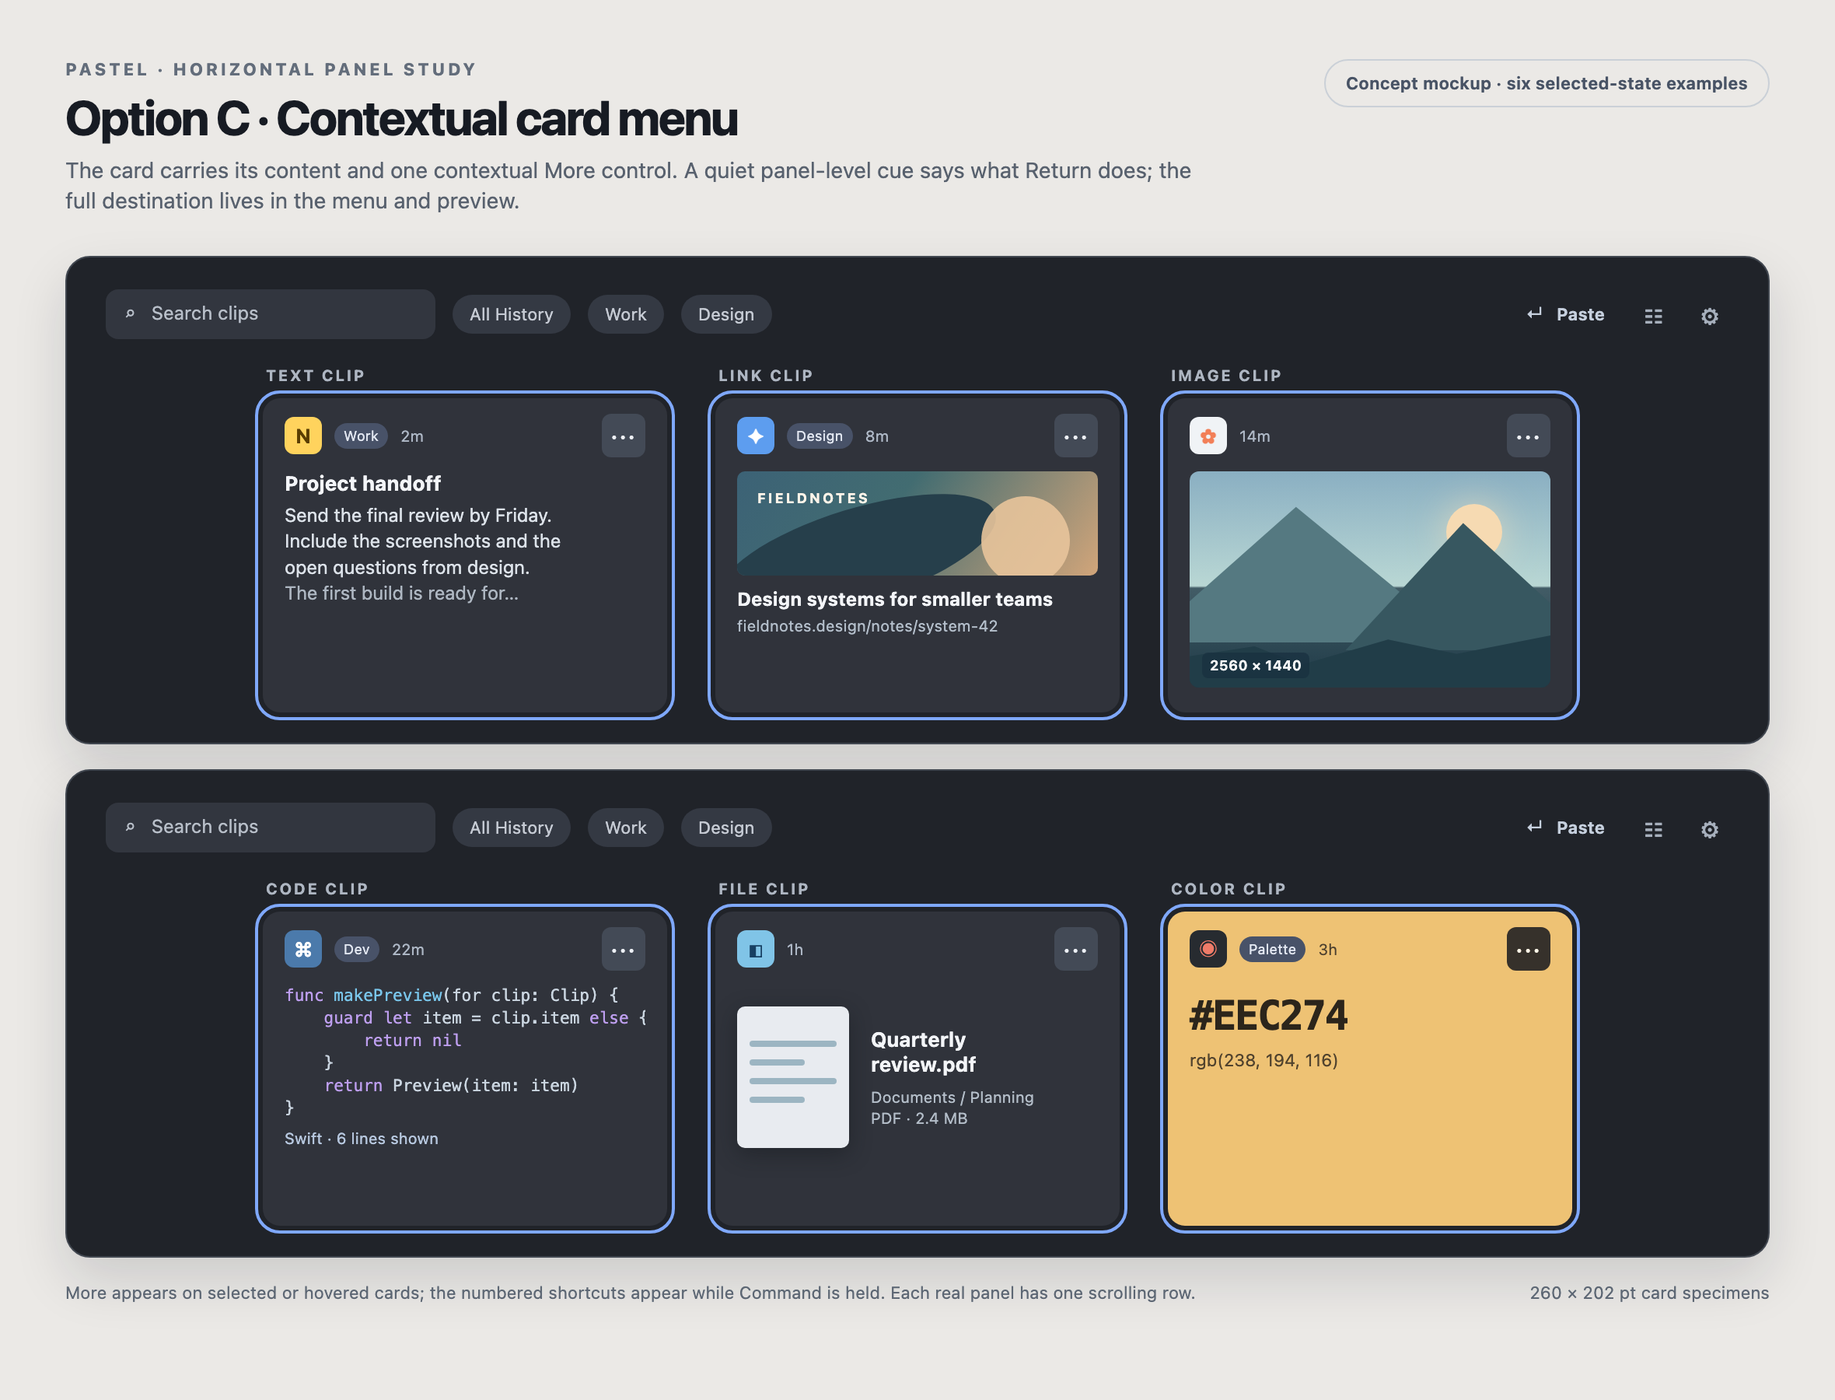
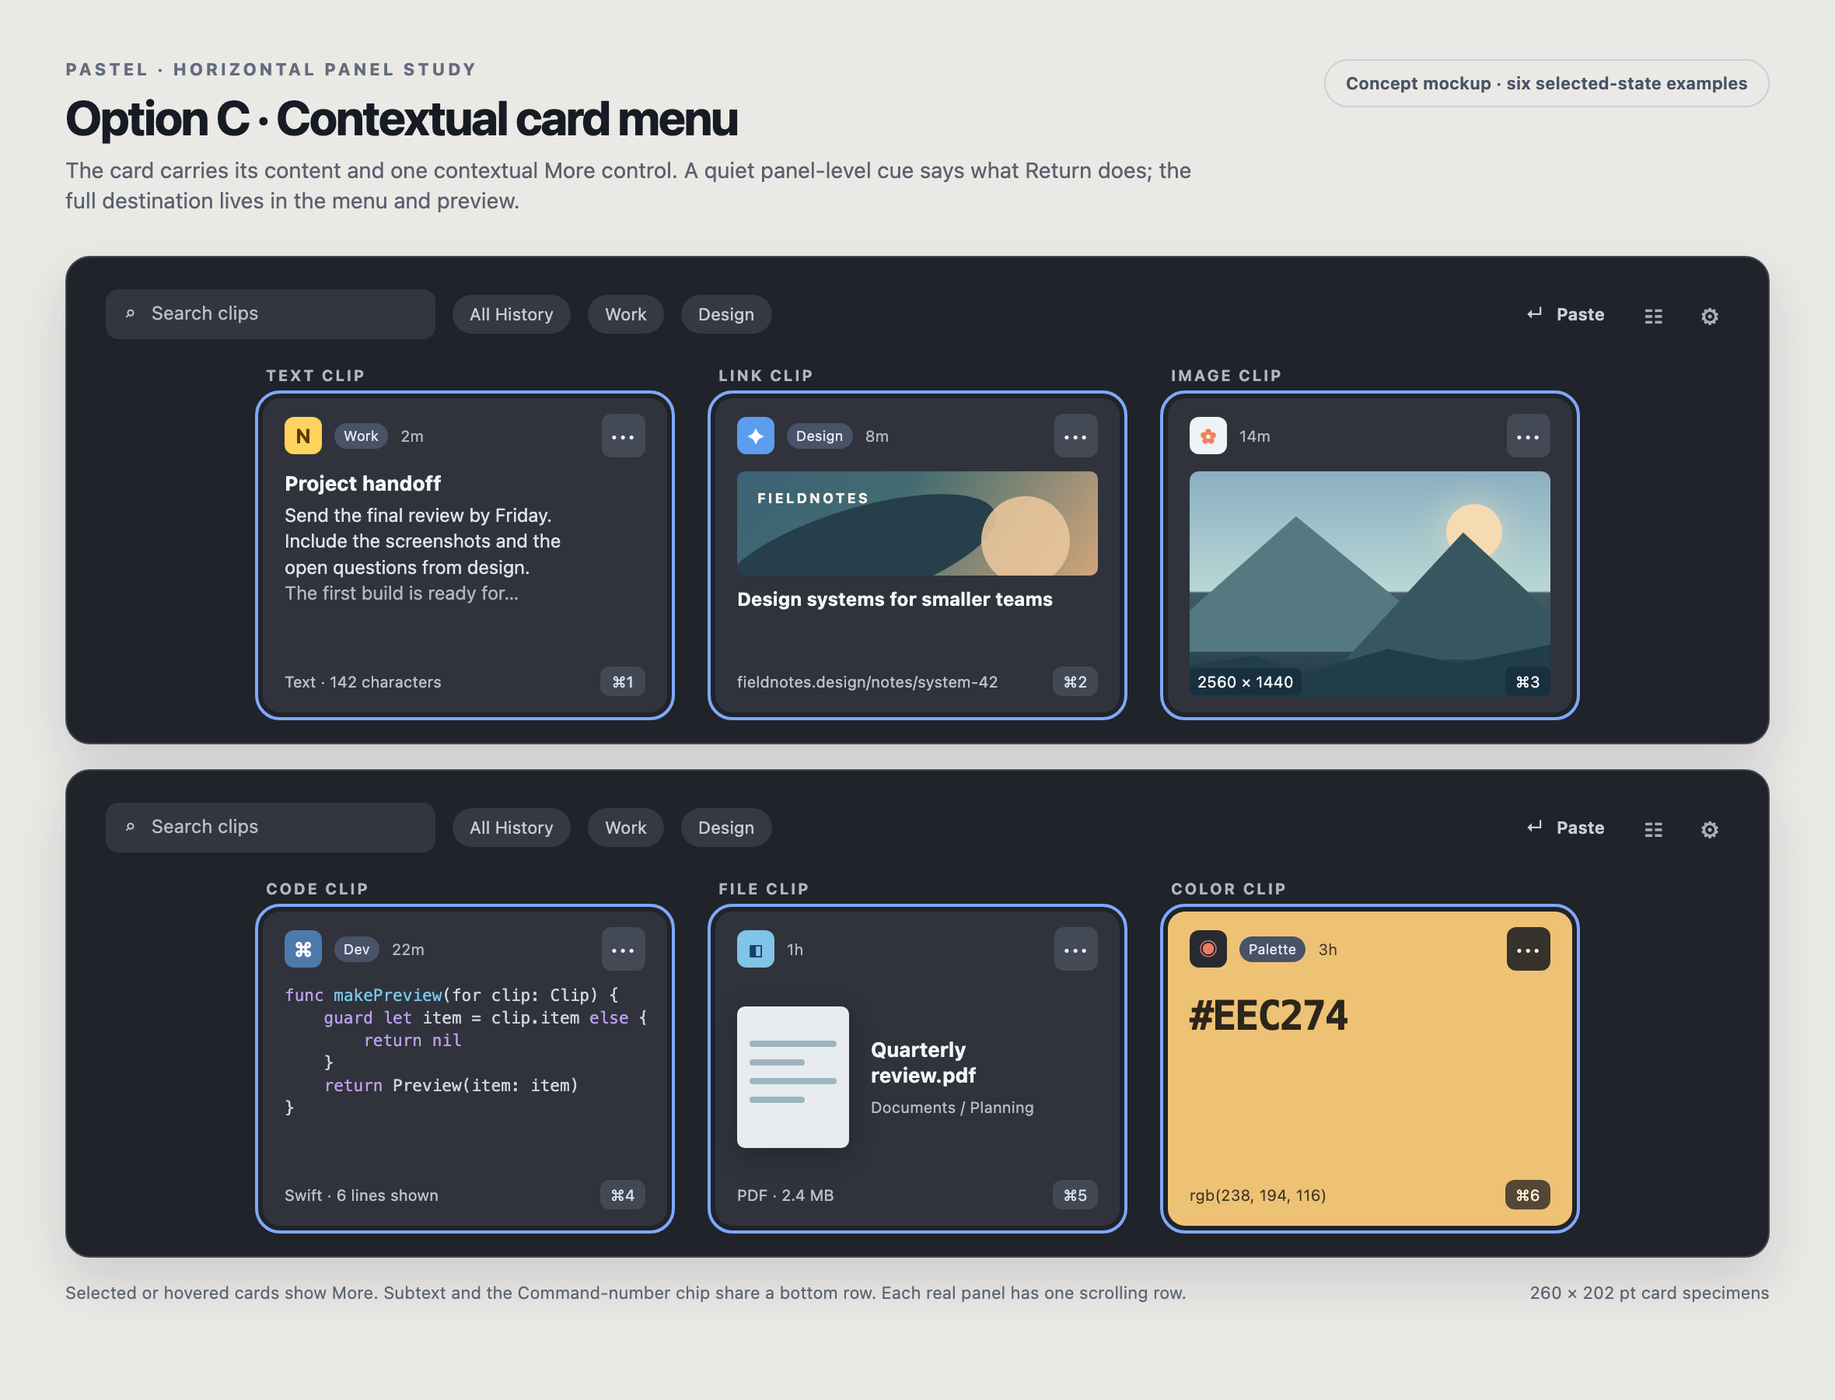
Keep shortcut badges with aligned card metadata

diff --git a/docs/design/card-layout-options.html b/docs/design/card-layout-options.html
@@ -49,6 +49,12 @@
   .inline-meta b { color: #d7dce6; font-weight: 600; }
   .quick { position: absolute; right: 13px; bottom: 10px; height: 19px; min-width: 29px; padding: 2px 5px; border-radius: 6px; background: #424955; color: #d7e0ed; font-size: 10px; text-align: center; }
   .card.color .quick { background: #544735; color: #fff2d9; }
+  .card-footer { display: none; position: absolute; bottom: 10px; left: 14px; right: 14px; align-items: center; gap: 8px; height: 20px; }
+  .card-footer .footer-meta { min-width: 0; flex: 1; color: #b7c1ce; font-size: 10px; white-space: nowrap; overflow: hidden; text-overflow: ellipsis; }
+  .card-footer .quick { position: static; flex: none; display: flex; align-items: center; justify-content: center; height: 19px; }
+  .card.color .card-footer .footer-meta { color: #433827; }
+  .card.image .card-footer .footer-meta, .card.image .card-footer .quick { color: #f7f9fa; background: #172e3ed9; padding: 3px 5px; border-radius: 4px; flex: none; }
+  .card.image .card-footer .footer-meta { margin-right: auto; }
   .link-art { height: 67px; width: 100%; border-radius: 5px; background: linear-gradient(125deg, #3c6276 0%, #426c71 42%, #d1a57a 100%); position: relative; overflow: hidden; }
   .link-art::before { content: ""; position: absolute; bottom: -17px; left: -15px; width: 185px; height: 60px; border-radius: 50%; background: #263f4b; transform: rotate(-17deg); }
   .link-art::after { content: ""; position: absolute; right: 18px; top: 16px; width: 57px; height: 57px; border-radius: 50%; background: #e8c49b; opacity: .9; }
@@ -85,12 +91,15 @@
   .quiet .header-hint + .more { margin-left: 2px; }
   .quiet .card.color .header-hint { color: #fff6e8; background: #36312b; }
   .minimal .mode-status { display: block; }
-  .minimal .card .quick, .minimal .card .photo-quick, .minimal .card .inline-meta { display: none; }
+  .minimal .card > .quick, .minimal .card .photo-quick, .minimal .card .inline-meta { display: none; }
+  .minimal .card-footer, .clean .card-footer { display: flex; }
+  .minimal .language, .clean .language, .minimal .link-url, .clean .link-url, .minimal .file-kind, .clean .file-kind, .minimal .swatch-sub, .clean .swatch-sub, .minimal .photo-meta, .clean .photo-meta { display: none; }
+  .minimal .photo-art, .clean .photo-art { height: 145px; }
   .minimal .card-header .label { margin-left: 3px; }
   .minimal .card-header .more { margin-left: auto; }
   .panel-more { display: none; height: 28px; width: 28px; align-items: center; justify-content: center; border-radius: 6px; background: #434a56; color: #eef1f6; font-size: 14px; font-weight: 750; letter-spacing: 1px; }
   .clean .mode-status, .clean .panel-more { display: flex; }
-  .clean .card .quick, .clean .card .photo-quick, .clean .card .inline-meta, .clean .card .more { display: none; }
+  .clean .card > .quick, .clean .card .photo-quick, .clean .card .inline-meta, .clean .card .more { display: none; }
   .clean .card-header .label { margin-left: 3px; }
   .clean .card-header .time { margin-left: auto; }
 </style>
@@ -135,8 +144,8 @@
    : variant === 'b' ? 'Keep source, label, and recency in the header. A compact More control reveals explicit actions; Return still performs the primary action.'
    : variant === 'c' ? 'The card carries its content and one contextual More control. A quiet panel-level cue says what Return does; the full destination lives in the menu and preview.'
    : 'Cards show content, source, and recency. A single panel-level More control follows selection, with Return shown nearby.';
- if (variant === 'c') document.getElementById('caption').textContent = 'More appears on selected or hovered cards; the numbered shortcuts appear while Command is held. Each real panel has one scrolling row.';
- if (variant === 'd') document.getElementById('caption').textContent = 'One panel-level More menu follows the current selection; right-click and Command-K reach the same actions. Each real panel has one scrolling row.';
+ if (variant === 'c') document.getElementById('caption').textContent = 'Selected or hovered cards show More. Subtext and the Command-number chip share a bottom row. Each real panel has one scrolling row.';
+ if (variant === 'd') document.getElementById('caption').textContent = 'One panel-level More menu follows selection. Subtext and the Command-number chip share a bottom row. Each real panel has one scrolling row.';
  const app = (cls, text) => `<div class="app ${cls}">${text}</div>`;
  const header = (cls, icon, time, label = '') => variant === 'a'
    ? `<div class="card-header">${app(cls, icon)}<span class="time">${time}</span><span class="grow"></span><span class="primary">Paste → Notes<span class="return">↵</span></span><span class="more">···</span></div>`
@@ -152,13 +161,21 @@
     }
     <span class="kw">return</span> Preview(item: item)
 }</pre><div class="language">Swift · 6 lines shown</div></div><div class="quick">⌘4</div>`],
-   ['File', 'finder', '◧', '1h', '', `<div class="file-body"><div class="file-thumb"><div class="rule"></div><div class="rule short"></div><div class="rule"></div><div class="rule short"></div></div><div><div class="file-title">Quarterly<br>review.pdf</div><div class="file-location">Documents / Planning<br>PDF · 2.4 MB</div></div></div><div class="quick">⌘5</div>`],
+   ['File', 'finder', '◧', '1h', '', `<div class="file-body"><div class="file-thumb"><div class="rule"></div><div class="rule short"></div><div class="rule"></div><div class="rule short"></div></div><div><div class="file-title">Quarterly<br>review.pdf</div><div class="file-location">Documents / Planning<br><span class="file-kind">PDF · 2.4 MB</span></div></div></div><div class="quick">⌘5</div>`],
    ['Color', 'figma', '◉', '3h', 'Palette', `<div class="color-body"><div class="swatch-title">#EEC274</div><div class="swatch-sub">rgb(238, 194, 116)</div></div><div class="inline-meta">Original value retained</div><div class="quick">⌘6</div>`]
  ];
- function render(items) { return items.map(([type, cls, icon, time, label, content]) =>
-  `<div class="sample"><div class="sample-name">${type} clip</div><div class="card ${type === 'Color' ? 'color' : ''}">${header(cls,icon,time,label)}${content}</div></div>`).join(''); }
- document.getElementById('grid-first').innerHTML = render(cards.slice(0, 3));
- document.getElementById('grid-second').innerHTML = render(cards.slice(3));
+ const footerMeta = {
+   Text: 'Text · 142 characters', Link: 'fieldnotes.design/notes/system-42',
+   Image: '2560 × 1440', Code: 'Swift · 6 lines shown',
+   File: 'PDF · 2.4 MB', Color: 'rgb(238, 194, 116)'
+ };
+ function render(items, startIndex) { return items.map(([type, cls, icon, time, label, content], index) => {
+   const footer = variant === 'c' || variant === 'd'
+     ? `<div class="card-footer"><span class="footer-meta">${footerMeta[type]}</span><span class="quick">⌘${startIndex + index + 1}</span></div>` : '';
+   return `<div class="sample"><div class="sample-name">${type} clip</div><div class="card ${type.toLowerCase()}">${header(cls,icon,time,label)}${content}${footer}</div></div>`;
+ }).join(''); }
+ document.getElementById('grid-first').innerHTML = render(cards.slice(0, 3), 0);
+ document.getElementById('grid-second').innerHTML = render(cards.slice(3), 3);
 </script>
 </body>
 </html>

diff --git a/docs/design/card-layout-review.md b/docs/design/card-layout-review.md
@@ -18,9 +18,9 @@ If a panel-level menu feels too detached in usability testing, Option C is the f
 
 ## Current spatial contract and findings
 
-The horizontal panel is 270 pt high and cards are 260 pt wide. `PanelContentView` always appends the full-width action strip after the card list. `ClipboardCardView` places source icon, as many as three label chips, pin state, and recency in its header. Its footer appears whenever an item has a title **or a numbered shortcut badge**; numbered badges are present on the first nine panel cards, so the footer is effectively always reserved. In horizontal mode a `Spacer` pushes it to the bottom. This explains the simultaneous crowding of rich clips and empty middle space on short text or file clips. Uniform card slots help scanning; the extra footer row and panel-wide action strip are the avoidable costs.
+The horizontal panel is 270 pt high and cards are 260 pt wide. `PanelContentView` always appends the full-width action strip after the card list. `ClipboardCardView` places source icon, as many as three label chips, pin state, and recency in its header. Its footer appears whenever an item has a title **or a numbered shortcut badge**; numbered badges are present on the first nine panel cards, so the footer is effectively always reserved. In horizontal mode a `Spacer` pushes it to the bottom. This explains the simultaneous crowding of rich clips and empty middle space on short text or file clips. Uniform card slots help scanning; the separate title footer, flexible spacer, and panel-wide action strip are the avoidable costs.
 
-Removing the bottom strip should also reduce the panel's default height where content allows. Do not exchange a labeled sliver for an unlabeled one. Keep uniform card bounds for scanning, use extra room for bounded image/code previews when useful, and let genuinely short text keep breathing room. A user title belongs beside its excerpt, while numbered shortcuts can be tested as a temporary overlay shown when Command is held. Teach that shortcut in Help or onboarding so hiding permanent badges does not hide the feature altogether.
+Removing the bottom strip should also reduce the panel's default height where content allows. Do not exchange a labeled sliver for an unlabeled one. Keep uniform card bounds for scanning, use extra room for bounded image/code previews when useful, and let genuinely short text keep breathing room. A user title belongs beside its excerpt. **Keep the existing Command-1–9 chip persistently visible at bottom right** on the numbered clips. Align useful secondary text on the same baseline at bottom left: `Swift · 6 lines shown`, URL, image dimensions, file kind/size, or color format as appropriate. Reserve that small baseline inside the card so the preview cannot overlap it; a backed overlay is acceptable over image content. A clip without useful subtext can leave the left side empty.
 
 | Clip type | Current use of space | Recommended horizontal-strip treatment |
 | --- | --- | --- |
@@ -35,7 +35,7 @@ These refinements should be **panel-strip-specific**. `ClipboardCardView` curren
 
 ## Option D: one panel-level actions control (recommended)
 
-The card header carries source icon, at most one label plus an overflow count, pin state when relevant, and relative time. The content preview gets the remaining area. No action phrase or ellipsis sits inside the card. The top region carries a compact, clickable `↵ Paste`/`↵ Copy` primary action and one More button for the current selection. The full destination appears in the menu, Help, accessibility, and Space preview. Keep the selected card's ring clear so the toolbar's target is obvious. Multi-selection needs a visible count and truthful partial-operation wording. If that will not fit in the top row, show a temporary group-action row only while several clips are selected.
+The card header carries source icon, at most one label plus an overflow count, pin state when relevant, and relative time. The content preview gets the remaining area above the aligned subtext/shortcut baseline. No action phrase or ellipsis sits inside the card. The top region carries a compact, clickable `↵ Paste`/`↵ Copy` primary action and one More button for the current selection. The full destination appears in the menu, Help, accessibility, and Space preview. Keep the selected card's ring clear so the toolbar's target is obvious. Multi-selection needs a visible count and truthful partial-operation wording. If that will not fit in the top row, show a temporary group-action row only while several clips are selected.
 
 The existing top row also holds search, label chips, New Snippet, Pick Colour, panel position, and Settings. Prototype at the narrowest supported width. Collapse rarely used utilities into one menu before allowing chips to crush search or hiding the primary action. Preserve shortcuts and direct access to common functions. The image board simplifies toolbar utilities for legibility; it is a design study, not an exact current-build capture.
 
@@ -64,6 +64,16 @@ All four options remove the horizontal panel's persistent action strip. The vert
 The supplied UI/UX improvement plan identifies a confirmed color contrast problem. `contrastingColor(forHex:)` uses unlinearized channel weights and a fixed cutoff. For `#FF0000`, it chooses white text with 4.00:1 contrast although black would provide 5.25:1. Correct this before adding controls to arbitrary swatches; check secondary text, labels, and shortcut badges as rendered, not just the large hex value (`accessibility.md › Vision`, `color.md › Inclusive color`).
 
 The plan also recommends explicit presentation contexts, larger control targets, text enlargement, and reduced-motion checks. Those remain relevant here. Its suggestion to keep a stable action footer should apply to surfaces where the footer earns its area; the reported horizontal quick-panel strip is a strong reason to test the toolbar and contextual alternatives. No claim about the exact current rendered spacing, contrast over glass, or assistive behavior can be made without a current-build inspection.
+
+## Recommendations beyond the shortcut chip
+
+| Priority | Area | Change and reason |
+| --- | --- | --- |
+| First panel pass | Horizontal panel geometry | Remove the persistent bottom action strip and measure a shorter default panel. Preserve the real button semantics of the primary action in the top row. This returns attention and screen area to clips rather than leaving a new empty band. |
+| First panel pass | Search, filters, and toolbar | Search must retain a useful width when labels wrap or many controls are present. Show active filters clearly with an easy clear action. Consolidate infrequent utilities before compressing search, primary action, or More. The mockup omits some current utilities; test a real-width build. |
+| First panel pass | Action truthfulness | `↵ Paste` changes to `↵ Copy` for copy mode or absent destination. Menu, Help, accessibility, and preview retain the complete destination and explicit Paste/Copy commands. For multiple clips, show selected count and any text-only partial action; no single-card label should imply an operation on the whole range. |
+| Next product pass | History as a library | History currently lives inside Settings. A dedicated resizable History workspace with List/Grid choice would make scanning, organizing, and larger previews practical without turning the quick panel into a library window. This is a larger separate change from card density. |
+| Cross-cutting | Keyboard and accessibility | Give History full arrows/Return/Space navigation; preserve visible focus independently from selection. Fix arbitrary-color text contrast, verify VoiceOver menu/button names, enlarge hit targets, and check text enlargement and Reduce Motion. These gaps are documented in the supplied UI/UX plan and need live validation. |
 
 ## Suggested implementation and review order
 

diff --git a/.plans/other-app-learnings.md b/.plans/other-app-learnings.md
@@ -11,7 +11,7 @@ Status: Items 1–3 implemented on `ux-learnings`; build and model checks pass. 
 
 **Item 3 — preview:** Space from results opens a single adjacent read-only preview; Space or Escape closes it. The panel and selected clip remain in place. The preview supports text, code, rich text, image, URL, color, and local files (using Quick Look when available), with unavailable states for missing content. It shares the primary action, supports scoped arrow navigation, and closes with the panel. Its adaptive, quiet header/content/footer uses Pastel's own styling rather than a competitor layout.
 
-**Item 2 design follow-up (proposal, not implemented):** The named bottom action strip is too costly in the one-row horizontal panel, while repeating `Paste into [app]` and `Actions` inside 260 pt cards crowds rich previews. The current recommendation is one compact, clickable `↵ Paste`/`↵ Copy` cue and one More button in the panel top row for the current selection; cards show content, source, concise metadata, and a clear selection ring. Keep full destination and action names in Help, accessibility, the More menu, and Space preview. Preserve right-click and Command-K as additional routes. If the top row crowds search and filters, compare a selected-card ellipsis that appears only on focus or hover. See [the card layout review](../docs/design/card-layout-review.md) and its concept boards for clip-type examples. This changes presentation, not the explicit-action or target-safety contract above, and needs live usability/accessibility validation before implementation.
+**Item 2 design follow-up (proposal, not implemented):** The named bottom action strip is too costly in the one-row horizontal panel, while repeating `Paste into [app]` and `Actions` inside 260 pt cards crowds rich previews. The current recommendation is one compact, clickable `↵ Paste`/`↵ Copy` cue and one More button in the panel top row for the current selection; cards show content, source, concise metadata, and a clear selection ring. **Keep the existing Command-1–9 chip visible at bottom right** and align type-specific subtext, such as `Swift · 6 lines shown`, to its bottom-left baseline. Keep full destination and action names in Help, accessibility, the More menu, and Space preview. Preserve right-click and Command-K as additional routes. If the top row crowds search and filters, compare a selected-card ellipsis that appears only on focus or hover. See [the card layout review](../docs/design/card-layout-review.md) and its concept boards for clip-type examples. This changes presentation, not the explicit-action or target-safety contract above, and needs live usability/accessibility validation before implementation.
 
 **Verification:** Both App Store and Sparkle macOS schemes build without code-signing, and standalone action-policy and selection-reconciliation smoke checks pass. Source and build verification cannot establish live focus behavior, paste delivery, VoiceOver order, appearance, or multi-display placement. Live app inspection was blocked by computer-use timeouts and missing assistive access. Run the acceptance matrices below on an accessible macOS session before marking release verification complete.
 
